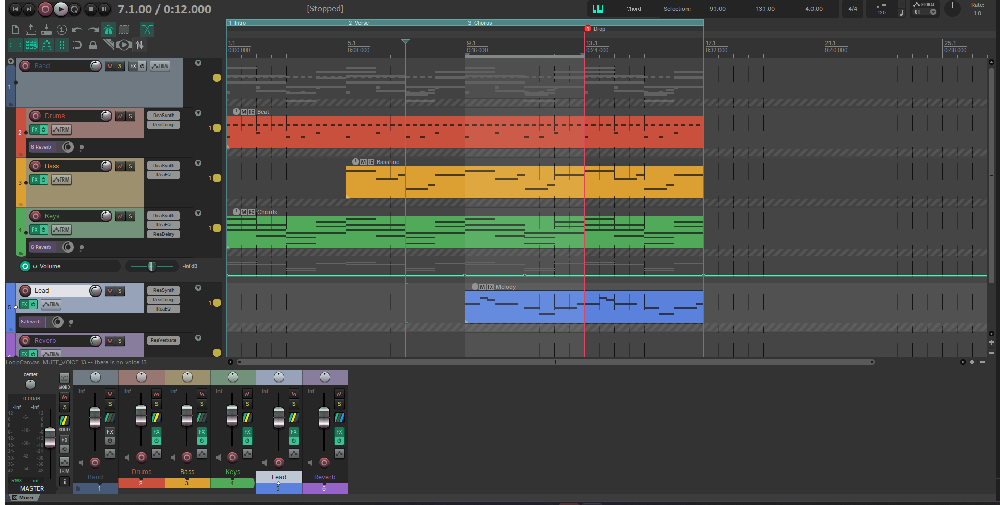
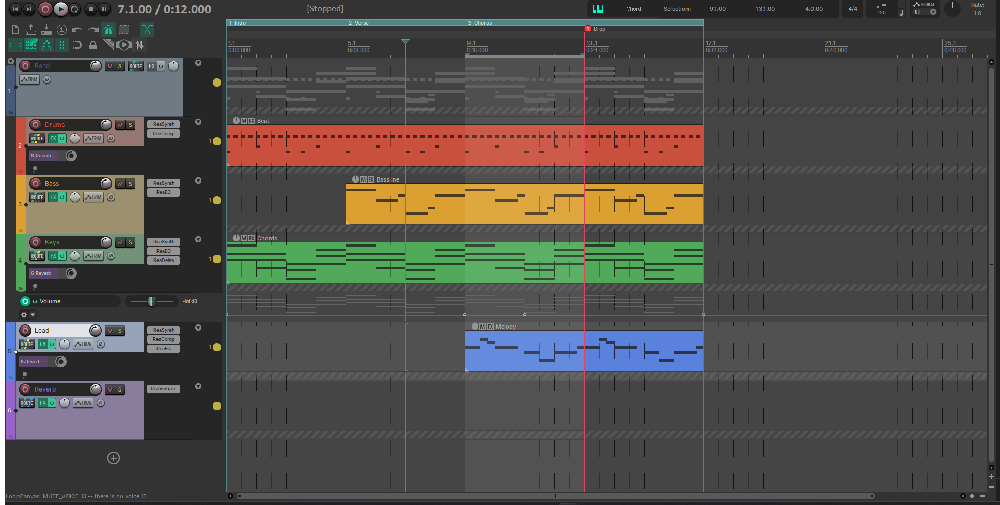
ReaPersona 5.18.1: each persona sets the mixer as its DAW opens; the last persona's windows go back first; previews show exactly what a persona does
styles.json: a ["toggle", 40078, ...] for every persona (closed for the DAWs that open on their edit window, shown for Base REAPER); Reason's top-docked mixer is closed at first. core: apply_feel puts back the last style's windows before applying the new one, and a 40078/40083 toggle waits behind window moves still running, so Reason -> Audacity no longer shows the mixer and Audacity -> My REAPER no longer hides it. make_previews.lua no longer forces the mixer open and docked. Previews retaken; docs/ images built from them.

Tested on JAMES-MAIN: My REAPER -> Reason -> Audacity -> My REAPER -> FL Studio -> Reason -> Logic -> My REAPER left the mixer right at every step and gave My REAPER's back (docked bottom, shown); Reason's mixer opens in the top docker. tests/test_core.lua passes.

diff --git a/CHANGELOG.md b/CHANGELOG.md
@@ -1,5 +1,10 @@
 # Changelog
 
+## 5.18.1
+- **Each persona opens the way its DAW does.** Switching to a persona now also sets whether the mixer is showing, as that DAW opens: its edit window first, mixer closed, for Pro Tools (Ctrl+=), Logic (X), FL Studio (F9), Cubase and Nuendo (F3), Studio One (F3), Bitwig (M), Cakewalk (Alt+2), Ableton, GarageBand, Audacity and Audition; Base REAPER shows it docked at the bottom, as REAPER does. Reason's Main Mixer docks at the top when you open it (F5) instead of filling the window. Switching away puts your mixer back. (Settings > what personas may change > Mixer turns this off.)
+- **A persona's mixer setting no longer gets undone by the last persona's windows.** Leaving a persona that moved the mixer (Reason) put it back after the next persona had set it, so that one showed the mixer anyway and then hid yours when you switched back. The last persona's windows now go back first.
+- **Previews are exactly what a persona looks like.** The pictures no longer force the mixer open and docked (that made the tall mixers): each shows what using the persona gives, in its recommended theme. The README's pictures are made from the same ones.
+
 ## 5.18.0
 - **Each DAW persona's best look-alike theme is its default.** Picked from all 44 community themes ReaPersona knows by capturing each one: Pro Tools and Pro Tools Intro now recommend PRO TOOLS GOLD 2026 (was ProTools2020), Bitwig INQUASAR DARK MATTER (was Reapertips Purple), Reason Dark_Side_Imperial (was ReaPersona's own); Logic and GarageBand (I Logic V3 WC), Ableton Live (rLive), FL Studio (FL Studio Theme beta 4), Cubase and Nuendo (CubeXR) and Studio One (HYDRA) keep theirs. Switching to a persona still offers its look once, and a theme you picked yourself stays yours.
 - **The installer puts that look on too.** Setting up a new REAPER as a DAW now downloads the persona's recommended theme first (where there's a download for it), so the first start already looks like that DAW. If the download doesn't work, setup says so and carries on; the Themes page has it.
